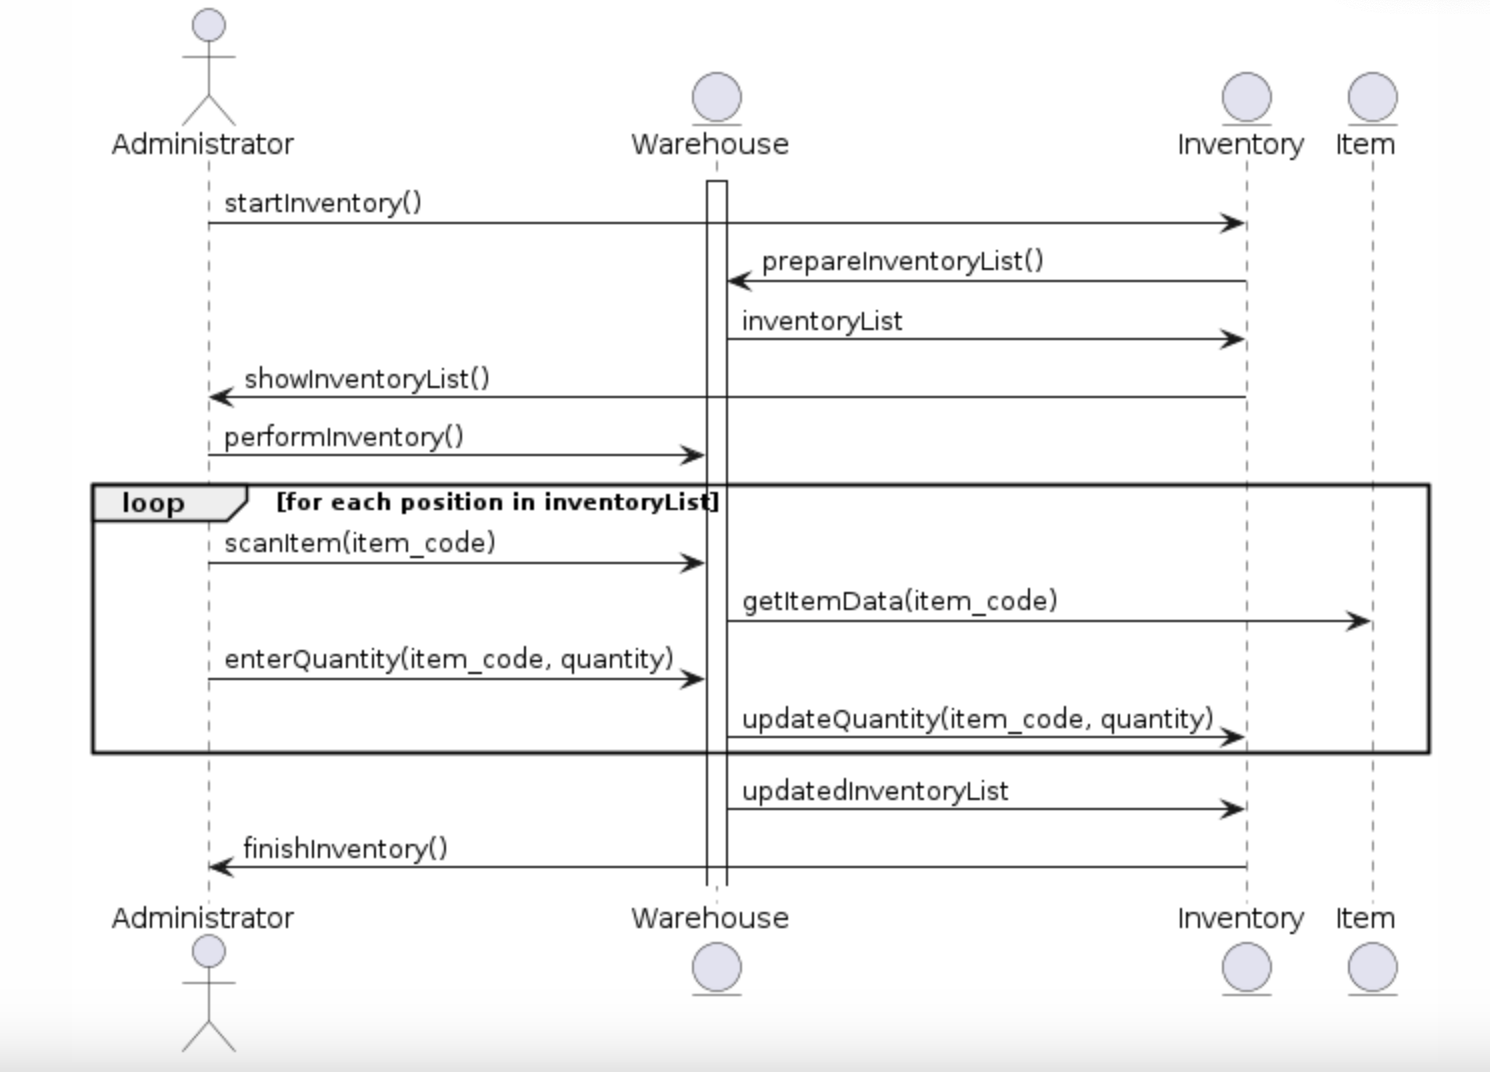
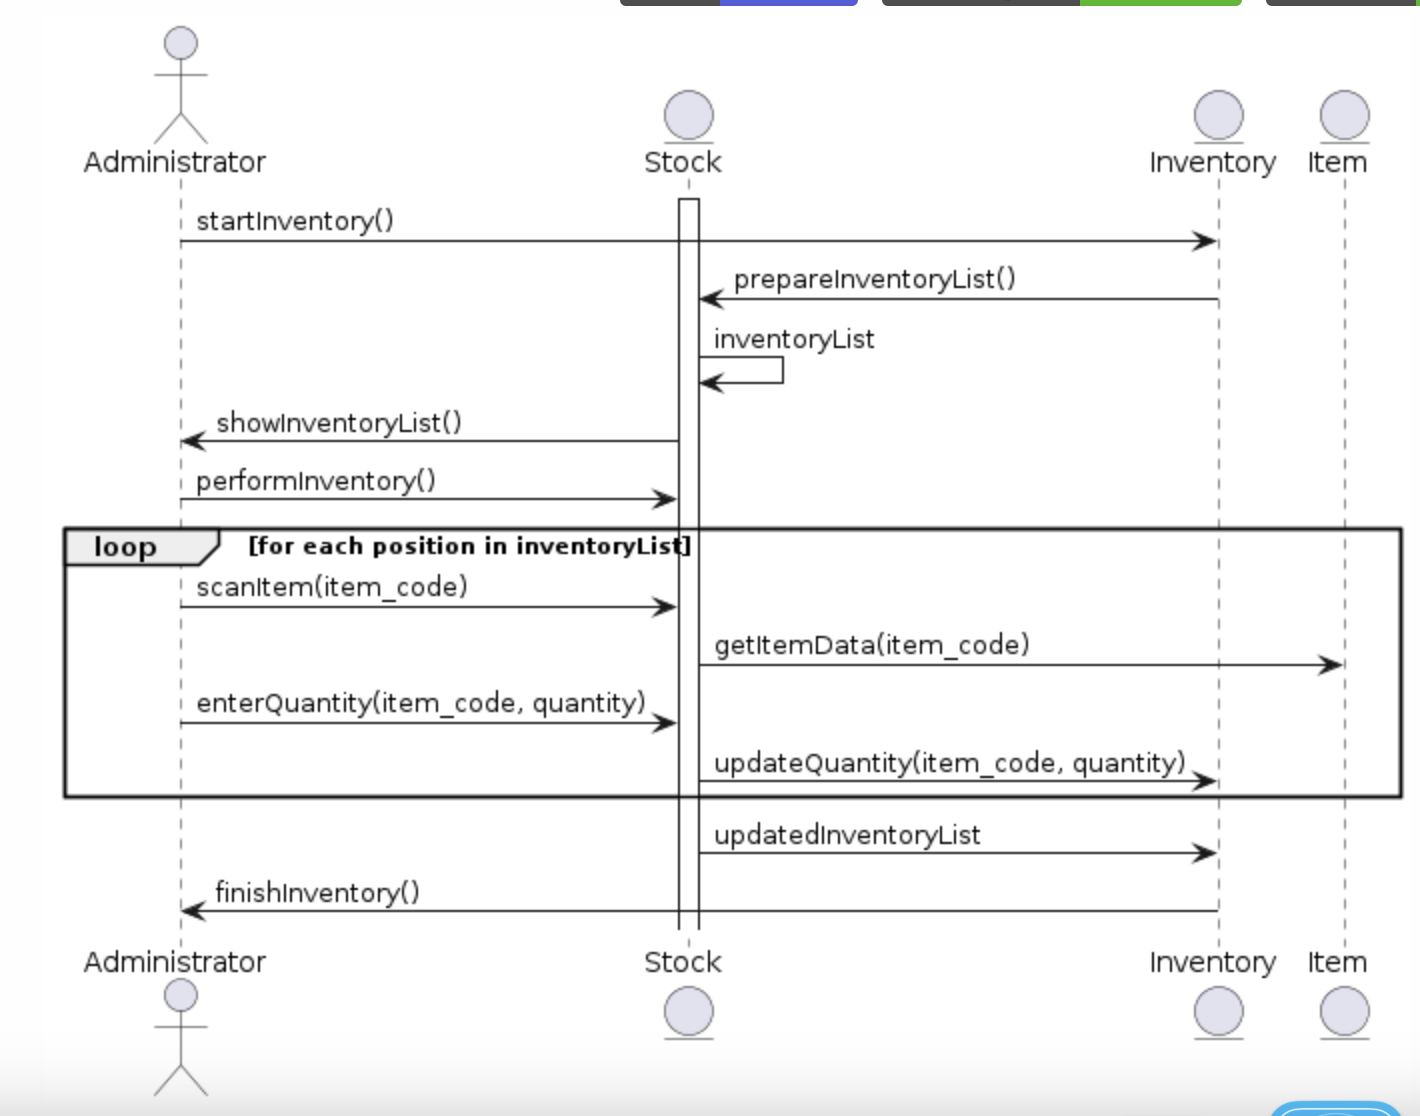
Обновление прецедента "Инвентаризация товаров"

diff --git a/warehouse/Прецеденты/Инвертаризация/Инвентаризация товара.md b/warehouse/Прецеденты/Инвертаризация/Инвентаризация товара.md
@@ -1,14 +1,14 @@
-# Обработка брака
+# Инвертаризация товаров
 
 ### Рамки: Информационная система склада
 ### Уровень: Инвентаризация товара
-### Основной исполнитель: Кладовщик
+### Основной исполнитель: Администратор
 ### Заинтересованные лица и их требования:
 
 **Компания:**
 - Получение точных данных о наличии товаров на складе и его количестве.
 
-**Кладовщик и Администратор склада:**
+**Администратор склада:**
 - Осуществление инвентаризации в срок для избежания потерь товаров и ошибок в учете.
 
 ### Предусловия:
@@ -19,20 +19,11 @@
 - Обновленные данные о наличии товаров на складе.
 
 ### Успешный сценарий:
-1. Подготовка к инвентаризации:
-1.1 Администратор склада определяет дату и время проведения инвентаризации.
-1.2 Администратор склада назначает группу сотрудников склада, кладовщиков, для проведения инвентаризации.
-1.3 Администратор подготавливает необходимое оборудование: сканеры и инвентаризационные листы.
-2. Проведение инвентаризации:
-2.1 Кладовщик получает необходимое оборудование.
-2.2 Кладовщик сканирует товар и подсчитывает его количество.
-2.3 Кладовщик вносит данные о количестве товара в свой инвентаризационный лист.
-2.4 При обнаружении расхождений и потерь, кладовщик фиксирует их в специальной форме.
-3. Подведение итогов:
-3.1 Кладовщики сдают инвентаризационные листы и сканеры.
-3.2 Администратор сверяет данные о расхождениях и составляет отчет об потерях на складе.
-4. Обновление данных в системе складского учета:
-4.1 Администратор вносит обновленные данные в систему складского учета.
+1. Администратор начинает инвентаризацию.
+2. Склад готовит список инвентаризации.
+3. Администратор сканирует и вводит количество товаров.
+4.Склад обновляет список инвентаризации.
+5.Инвентаризация завершена, данные обновлены в системе.
 
 ### Частота использования: периодическая
 

diff --git a/warehouse/Прецеденты/Инвертаризация/Инвентаризация товара - диаграмма.md b/warehouse/Прецеденты/Инвертаризация/Инвентаризация товара - диаграмма.md
@@ -1,24 +1,24 @@
 @startuml
 
 actor Administrator
-entity Warehouse
+entity Stock
 entity Inventory
 entity Item
 
-activate Warehouse
+activate Stock
 
 Administrator -> Inventory: startInventory()
-Inventory -> Warehouse: prepareInventoryList()
-Warehouse -> Inventory: inventoryList
-Inventory -> Administrator: showInventoryList()
-Administrator -> Warehouse: performInventory()
+Inventory -> Stock: prepareInventoryList()
+Stock -> Stock: inventoryList
+Stock -> Administrator: showInventoryList()
+Administrator -> Stock: performInventory()
 loop for each position in inventoryList
-    Administrator -> Warehouse: scanItem(item_code)
-    Warehouse -> Item: getItemData(item_code)
-    Administrator -> Warehouse: enterQuantity(item_code, quantity)
-    Warehouse -> Inventory: updateQuantity(item_code, quantity)
+    Administrator -> Stock: scanItem(item_code)
+    Stock -> Item: getItemData(item_code)
+    Administrator -> Stock: enterQuantity(item_code, quantity)
+    Stock -> Inventory: updateQuantity(item_code, quantity)
 end
-Warehouse -> Inventory: updatedInventoryList
+Stock -> Inventory: updatedInventoryList
 Inventory -> Administrator: finishInventory()
 
 @enduml
